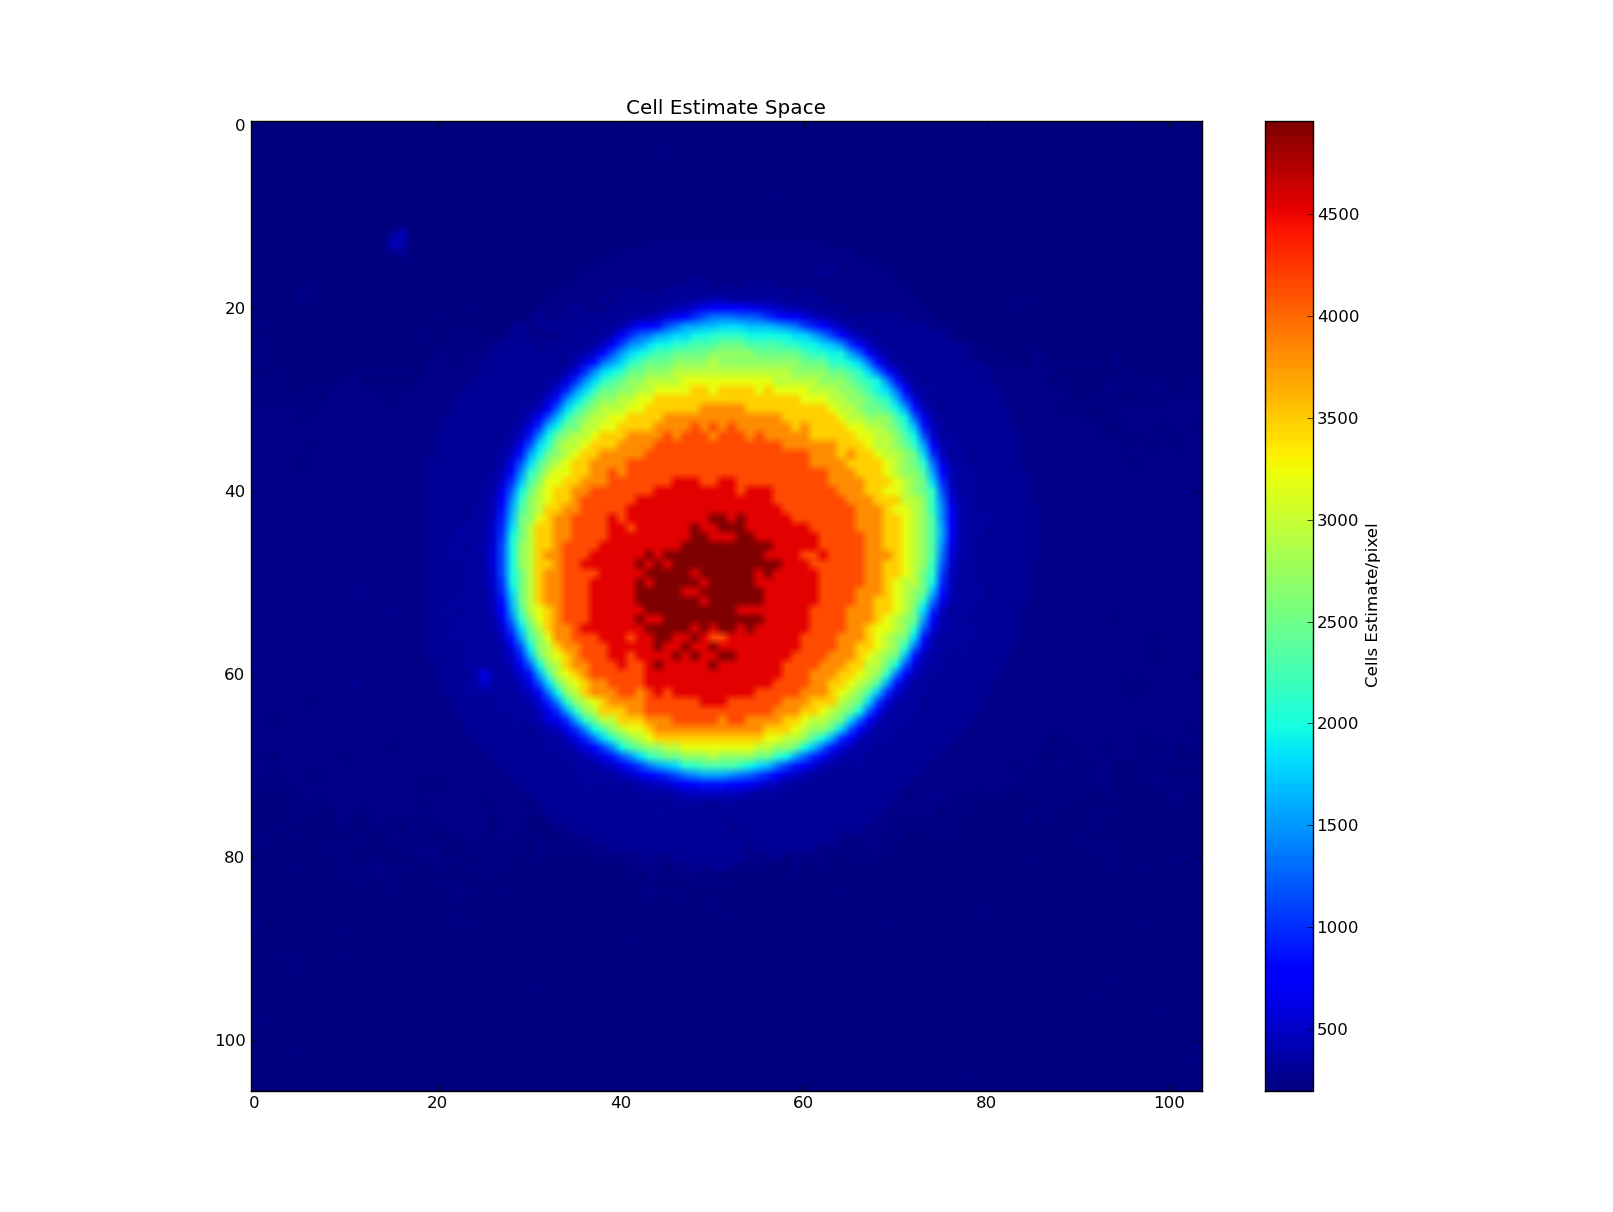
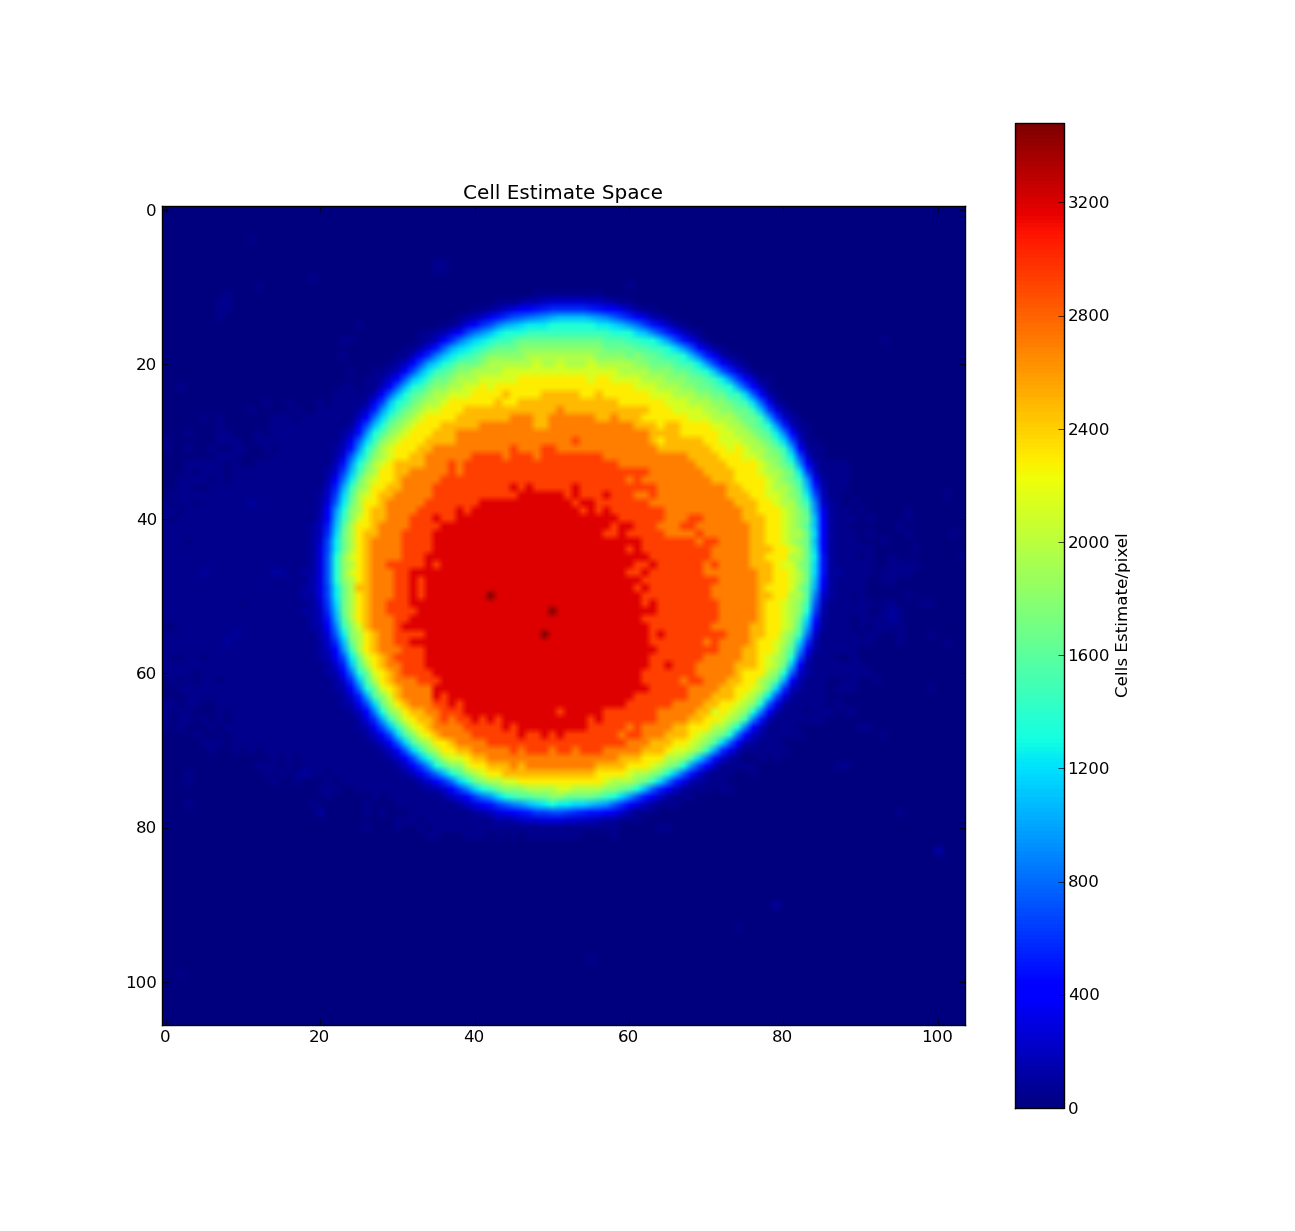
Added blob-varation between time-points limits.

Changed region(s): [[0.2162, 0.2442, 0.6486, 0.6716], [0.0927, 0.0611, 0.7722, 0.9158], [0.8031, 0.0916, 0.8958, 0.9158]]

diff --git a/2011.Scannomatic/src/grid_cell_analysis.py b/2011.Scannomatic/src/grid_cell_analysis.py
@@ -315,14 +315,24 @@ class Blob(Cell_Item):
     # DETECT functions
     #
 
-    def detect(self, use_fallback_detection = None):
+    def detect(self, use_fallback_detection = None, 
+        max_change_threshold = 0.3):
         """
             Generic wrapper function for blob-detection
 
             Optional argument:
 
-            @use_fallback_detection     If set, overrides the instance default        
+            @use_fallback_detection     If set, overrides the instance default 
+
+            @max_change_threshold       The max sum of differentiating pixels 
+                                        devided by old filters sum of pixels.
+ 
         """
+
+        if self.filter_array is None:
+            old_filter = None
+        else:
+            old_filter = self.filter_array.copy()
 
         if use_fallback_detection:
             self.threshold_detect()
@@ -333,6 +343,86 @@ class Blob(Cell_Item):
         else:
             self.edge_detect()
 
+
+        if old_filter is not None:
+
+            blob_diff = (np.abs(old_filter - self.filter_array)).sum()
+            oldsum = old_filter.sum()
+
+            bad_diff = True
+
+            if blob_diff / float(oldsum) > max_change_threshold:
+
+                if self.filter_array.sum() > 0:
+
+                    old_com = center_of_mass(old_filter)
+                    new_com = center_of_mass(self.filter_array)
+
+                    dim_1_offset = -1 * int(old_com[0] - new_com[0])
+                    dim_2_offset = -1 * int(old_com[1] - new_com[1])
+
+                    diff_filter = old_filter.copy()
+                    
+
+                    for dim_1_pos in xrange(old_filter.shape[0]):
+
+                        for dim_2_pos in xrange(old_filter.shape[1]):
+
+                            if 0 <= dim_1_pos + dim_1_offset < \
+                                diff_filter.shape[0] and \
+                                0 <= dim_2_pos + dim_2_offset< \
+                                diff_filter.shape[1]:
+
+                                diff_filter[dim_1_pos, dim_2_pos] -= \
+                                    self.filter_array[dim_1_pos + dim_1_offset,
+                                        dim_2_pos + dim_2_offset]
+
+                    
+                            
+
+
+                    #DEBUG BLOB DIFFERENCE QUALITY THRESHOLD
+                    #print "***Offsetting blob diff calc with", dim_1_offset, dim_2_offset
+                    #from matplotlib import pyplot as plt
+                    #plt.clf()
+                    #plt.imshow(diff_filter)
+                    #plt.title("Blobs center of mass superimposed diff-image")
+                    #plt.show()
+                    #plt.clf()
+                    #plt.imshow(self.filter_array)
+                    #plt.title("Current detection (that will be discarded)")
+                    #plt.show()
+                    #plt.clf()
+                    #plt.imshow(old_filter)
+                    #plt.title("Blob detection used on previous (that will be used here)")
+                    #plt.show()
+                    #DEBUG END
+
+                    blob_diff = (np.abs(diff_filter)).sum()
+                    if blob_diff / float(oldsum) > max_change_threshold:
+                        bad_diff = False
+
+                #DEBUG BLOB DIFFERENCE QUALITY THRESHOLD
+                #from matplotlib import pyplot as plt
+                #plt.clf()
+                #plt.imshow(self.filter_array)
+                #plt.title("Current detection (that will be discarded)")
+                #plt.show()
+                #plt.clf()
+                #plt.imshow(old_filter)
+                #plt.title("Blob detection used on previous (that will be used here)")
+                #plt.show()
+                #DEBUG END
+
+                if bad_diff:
+
+                    self.filter_array = old_filter
+                    print "*** WARNING: Blob detection gone bad, using old blob"
+
+            #DEBUG BLOB DIFFERENCE QUALITY THRESHOLD
+            #else:
+            #    print "*** Blob filter data: ", oldsum, blob_diff, blob_diff/float(oldsum)
+            #DEBUG END
 
         ###DEBUG DETECTION TIME SERIES
         #from scipy.misc import imsave
@@ -354,6 +444,7 @@ class Blob(Cell_Item):
             @im             Optional alternative image source
 
         """
+
 
         if self.threshold == None:
             self.set_threshold(im=im, threshold=threshold)

diff --git a/2011.Scannomatic/src/grid_cell.py b/2011.Scannomatic/src/grid_cell.py
@@ -148,7 +148,8 @@ class Grid_Cell():
             #plt.show() 
             #DEBUG END
             if bg_sub_source is not None:
-                self.data_source = self.data_source - bg_sub_source
+                bg_sub = np.mean(self.data_source[np.where(bg_sub_source)])
+                self.data_source = self.data_source - bg_sub
                 self.data_source[np.where(self.data_source<0)] = 0
             #DEBUG -> CELL ESTIMATE SPACE PART !
             #from matplotlib import pyplot as plt
